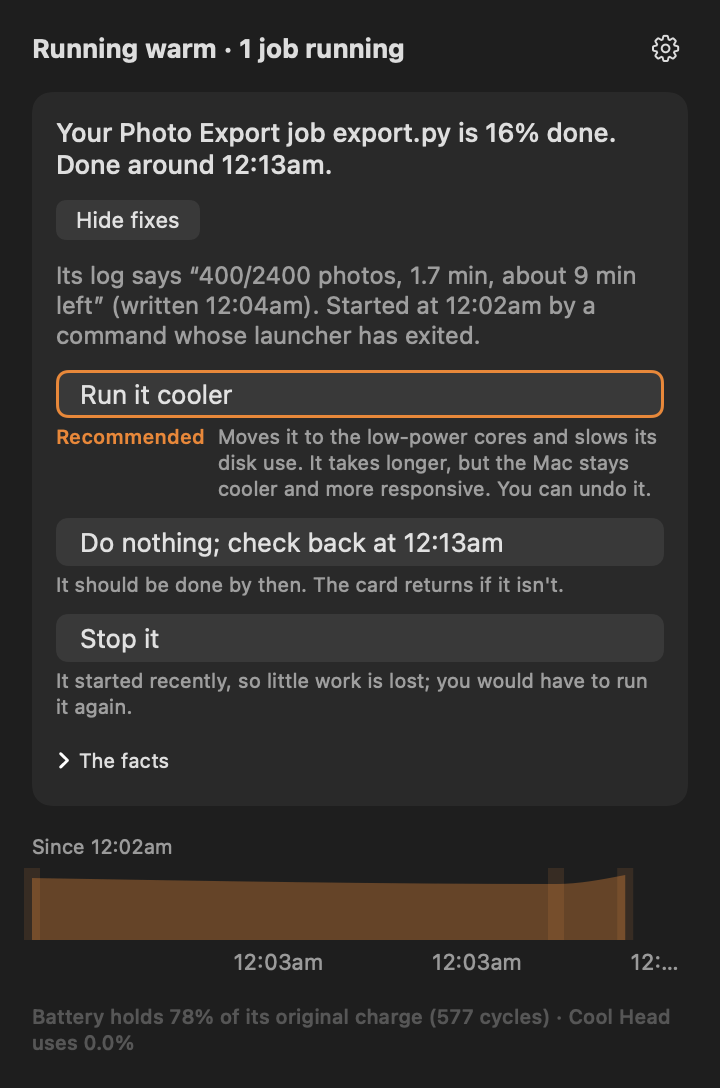
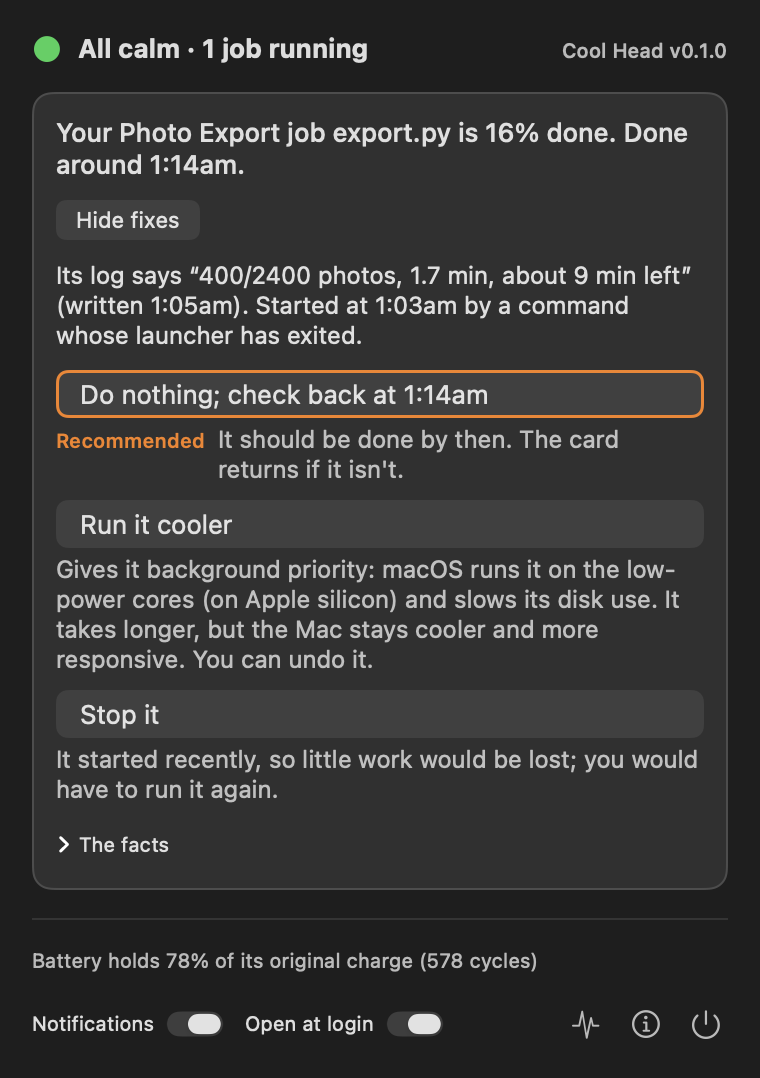
README, DESIGN and CONTRIBUTING describe the current app; new screenshots in light and dark

diff --git a/README.md b/README.md
@@ -4,23 +4,28 @@
 
 <p align="center"><em>Let cooler heads prevail.</em><br>Why is my Mac running hot or slow? What's happening, gathered from across your Mac into one place, with clear options to act in one click.<br>A free, open-source menu bar app for macOS.</p>
 
-<p align="center"><img src="docs/images/panel-light.png" width="380" alt="The Cool Head panel: a card saying a photo export job is 45% done and when it should finish, with a Let it finish button"></p>
+<p align="center">
+  <picture>
+    <source media="(prefers-color-scheme: dark)" srcset="docs/images/panel-dark.png">
+    <img src="docs/images/panel-light.png" width="400" alt="The Cool Head panel: a card saying a photo export job is 16% done and should finish around 1:14am, with its fixes open: do nothing and check back (recommended), run it cooler, or stop it, each with what it would cause">
+  </picture>
+</p>
 
 ## What it is
 
-Activity Monitor shows numbers. Cool Head reads what a busy process is actually doing (its command, what started it, the files it writes, the progress it reports) and tells you in one sentence whether that is fine:
+Activity Monitor shows numbers. Cool Head reads what a busy process is actually doing (its command, what started it, the files it writes, the progress it reports, and the Mac's heat, power and memory at the time) and tells you in one sentence whether that is fine:
 
-> **Your Photo Export job export.py is 45% done. Done around 11:49pm.**
-> Let it finish
+> **Your Photo Export job export.py is 16% done. Done around 1:14am.**
 
 > **Spotlight is indexing your files. That's normal after a macOS update or when many files change, and it finishes on its own.**
 
 > **Your Model job train.py has been busy with no progress since 9:46pm. It looks stuck.**
-> Stop it · *It has done nothing new since 9:46pm, so stopping it loses nothing after that.*
 
-It keeps a cool head: a big job is not a problem just because it is big. Stopping is only suggested when a job has stalled, and the card says what stopping would cost. When it can't tell, it says so and offers to look the process up.
+Each card has one button, **Explore fixes**. It shows how Cool Head knows (for example, the job's own last progress line) and the options, each with what it would cause, one of them recommended: do nothing and check back when it should be done, run it cooler, stop it, quit the app, or look it up.
 
-It also connects the dots across the Mac: fast charging that adds heat, memory running short, and what needed a look earlier today.
+It keeps a cool head: a big job is not a problem just because it is big. Stopping is recommended only when a job has stalled, and every option says what it would cost, such as how much work stopping could lose. When Cool Head can't tell, it says so.
+
+It also connects the dots across the Mac: fast charging that adds heat, memory running short, and macOS's own background work (Spotlight, Photos, iCloud, Time Machine and more), each explained in plain words.
 
 ## Privacy
 
@@ -34,7 +39,7 @@ macOS 14 Sonoma or later, on Apple Silicon or Intel.
 
 1. Download the latest `Cool-Head-….zip` from [Releases](../../releases), and unzip it.
 2. Move **Cool Head** to Applications and open it. The first time, macOS may say it can't check the app (it isn't notarized yet): open **System Settings ▸ Privacy & Security** and choose **Open Anyway**.
-3. Look for the snowflake in the menu bar. A dot appears on it when something needs a look.
+3. Look for the snowflake in the menu bar. Its badge shows the state by shape and colour: a green circle when all is well, a yellow triangle when something needs a look, a red octagon for a problem. Click it for the panel; right-click for About and Quit.
 
 Or build it yourself: see [BUILDING.md](BUILDING.md).
 

diff --git a/DESIGN.md b/DESIGN.md
@@ -5,11 +5,11 @@ Drafted 14 November 2026 for Phil's review, at his request: *"we also should pos
 ## Journeys
 
 1. **"Why is my Mac hot?"** Click the menu bar icon. The panel opens on the answer: one card per cause, worst first. If all is calm, it says so in one line.
-2. **It tells you first.** Something has been abnormal for a while (default 10 minutes): the icon gets a dot, and a notification gives the card's one sentence. Clicking opens the panel on that card. No sound, at most one notification per cause.
-3. **Act.** The card's one button does the obvious thing (let it finish, run it cooler, close the tab, quit the app). Stopping anything asks once.
-4. **Look closer.** Tapping the card opens its evidence in place: the facts that led to the sentence, in plain lines. Nothing else to navigate.
-5. **Unknown.** The card says it is not sure and offers Look it up, which opens a web search for the process name in the browser. That is the only network use.
-6. **Looking back.** "What happened today?" is a short list under the cards: each past cause with its time. (A 24-hour chart was tried and removed on 15 November 2026. Phil: *"I don't know what that chart/bar is at the bottom. Is it meant to be temperature? Speed? System resource load? It's not clear or actionable, which just adds confusing clutter."*)
+2. **It tells you first.** Something has been abnormal for a while (default 10 minutes): the menu bar badge changes (yellow triangle, or red octagon for a problem), and a notification says something needs a look, without naming it (macOS keeps notification text). No sound, at most one notification per cause, none for a card you chose to wait on.
+3. **Act.** The card's one button, Explore fixes, shows how Cool Head knows and the options, each with its consequence and one recommended. Stopping asks once and names the process.
+4. **Look closer.** Under the options, "The facts" opens the evidence in place: the facts that led to the sentence, in plain lines, with anything that looks like a password hidden. Nothing else to navigate.
+5. **Unknown.** The card says it can't tell, and offers Look it up (a web search for the process name) and Share this case (an anonymised report, shown in full, that the person can open as a GitHub issue). Those are the only ways anything leaves the Mac, and only when pressed.
+6. **No looking back.** Cool Head is about now; it keeps no record of past causes. (A 24-hour chart and a "things today" list were tried and removed on 15 November 2026. Phil: *"I don't know what that chart/bar is at the bottom. Is it meant to be temperature? Speed? System resource load? It's not clear or actionable, which just adds confusing clutter."*)
 
 ## Layout
 
@@ -17,7 +17,6 @@ The menu bar panel, about 360 points wide, nothing else:
 
 - Status line: "Running warm: 1 cause" or "All calm".
 - Cards: one sentence each, and Explore fixes.
-- "N things today": past causes, with times.
 - Along the bottom: battery health, then switches for notifications and open at login, and icons for Activity Monitor, About and Quit. The name and version ("Cool Head v0.1.0") sit small at the top right. Right-clicking the menu bar icon shows About and Quit.
 
 No tabs, no tables, no process list. Activity Monitor is one click away, from the icon at the bottom of the panel, for anyone who wants the raw list.

diff --git a/CONTRIBUTING.md b/CONTRIBUTING.md
@@ -33,7 +33,7 @@ The [catalogue](Sources/CoolHeadCore/Catalogue.swift) is where Cool Head learns 
 
 ### How the code is meant to work
 
-- **One sentence, one action.** A card says what something is and whether it is fine, then offers one thing to do. Detail goes behind "Details", never on the card.
+- **One sentence, then Explore fixes.** A card says what something is and whether it is fine, in one sentence. Everything else (how we know, the options and what each would cause) goes behind Explore fixes, never on the card.
 - **Big is not broken.** Never suggest stopping a job just because it is big or long. Stopping is for stalled jobs, and the card must say what it would cost.
 - **Say "can't tell" when you can't.** A plain admission beats a guess.
 - **Everything stays on the Mac.** No network calls, no analytics. The only exception is Look it up, which the user presses, and which sends the process name only.
